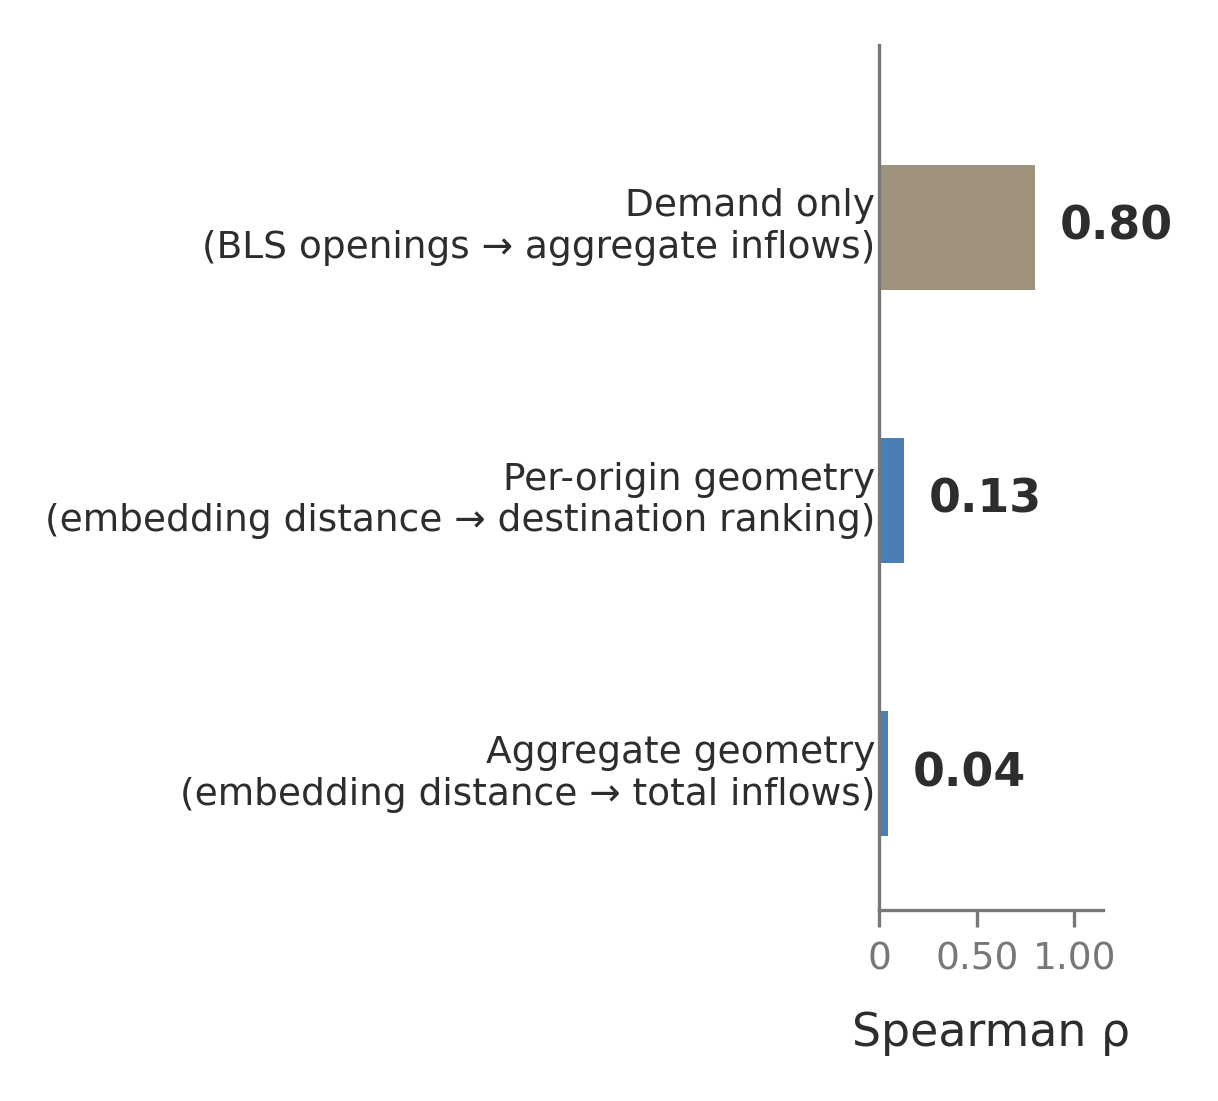
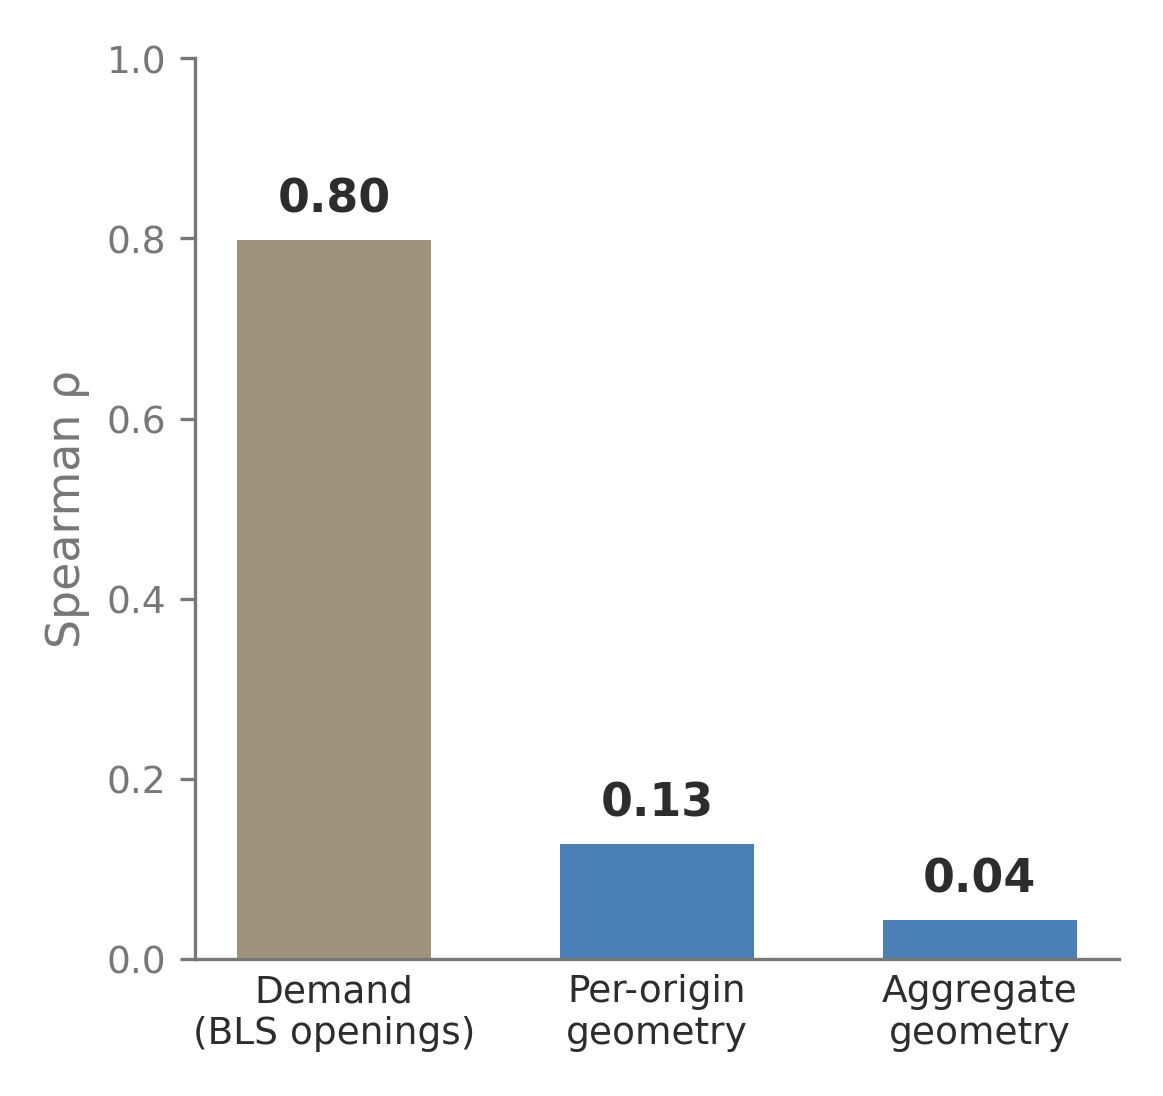
v0.7.9.2: Fig4 vertical bars, fig6 remove exponents and update subtitle

Changed region(s): [[0.031, 0.062, 0.9596, 0.9617], [0.0929, 0.031, 0.1548, 0.062]]

diff --git a/figures/fig4_scope.py b/figures/fig4_scope.py
@@ -1,56 +1,36 @@
 """
-Figure 4 — Supply-Demand Decomposition (scope)
-Target: Slide 7 ("What the Measure Captures")
-Data: Hardcoded from outputs/experiments/demand_probe_decomposition_v0703b.json
+Figure 4 — Supply-demand decomposition (scope)
+Target: Slide 7 (What the Measure Captures)
 """
 import sys, os
 sys.path.insert(0, os.path.join(os.path.dirname(__file__), '..'))
 
 import matplotlib.pyplot as plt
-from figures.style import setup, bar_label
-from figures.style import PRIMARY, SECONDARY, DARK, MID
+from figures.style import setup, PRIMARY, SECONDARY, DARK, MID
 
 font = setup()
 
-# === Data ===
-metrics = [
-    ("Demand only\n(BLS openings → aggregate inflows)",           0.798),
-    ("Per-origin geometry\n(embedding distance → destination ranking)", 0.128),
-    ("Aggregate geometry\n(embedding distance → total inflows)",   0.043),
-]
-
-# Reverse so top bar is demand (barh draws bottom-up)
-labels = [m[0] for m in metrics][::-1]
-values = [m[1] for m in metrics][::-1]
-colors = [PRIMARY, PRIMARY, SECONDARY]  # bottom two are geometry (PRIMARY), top is demand
-
-# === Figure ===
-bar_height = 0.55
-positions = [0, 1.2, 2.4]
+labels = ["Demand\n(BLS openings)", "Per-origin\ngeometry", "Aggregate\ngeometry"]
+values = [0.798, 0.128, 0.043]
+colors = [SECONDARY, PRIMARY, PRIMARY]
 
 fig, ax = plt.subplots(figsize=(4.0, 3.8))
 
-bars = ax.barh(positions, values, color=colors, height=bar_height,
-               edgecolor='none', zorder=2)
+bars = ax.bar(range(len(labels)), values, color=colors, width=0.6,
+              edgecolor='none', zorder=2)
 
-# Spec name labels
-for pos, label in zip(positions, labels):
-    ax.text(-0.02, pos, label, ha='right', va='center', fontsize=9,
-            color=DARK, fontweight='medium')
+# Value labels above bars
+for i, (v, bar) in enumerate(zip(values, bars)):
+    ax.text(bar.get_x() + bar.get_width() / 2, v + 0.02,
+            f'{v:.2f}', ha='center', va='bottom',
+            fontsize=11, color=DARK, fontweight='bold')
 
-# Value labels
-for pos, val in zip(positions, values):
-    bar_label(ax, val, pos, val, fmt='{:.2f}', fontsize=11)
-
-# Axes
-ax.set_xlim(0, 1.15)
-ax.set_ylim(-0.6, 3.2)
-ax.set_xticks([0, 0.5, 1.0])
-ax.set_xticklabels(['0', '0.50', '1.00'], fontsize=9)
-ax.set_yticks([])
-ax.set_xlabel("Spearman ρ", fontsize=11, labelpad=8)
-ax.tick_params(axis='y', length=0)
-ax.tick_params(axis='x', length=4)
+ax.set_xticks(range(len(labels)))
+ax.set_xticklabels(labels, fontsize=9, color=DARK)
+ax.set_ylabel('Spearman ρ', fontsize=11, color=MID)
+ax.set_ylim(0, 1.0)
+ax.tick_params(axis='y', labelsize=9)
+ax.tick_params(axis='x', length=0)
 
 plt.tight_layout()
 plt.savefig('figures/fig4_scope.png', dpi=300, bbox_inches='tight',

diff --git a/figures/fig6_embedding_similarity.py b/figures/fig6_embedding_similarity.py
@@ -53,6 +53,9 @@ ax1.annotate(f'Pipe\u2013Cement: {d_onet_pair:.2f}',
 ax1.set_title("O*NET Cosine Distance", fontsize=10, color=DARK, pad=6)
 ax1.set_ylabel('Pairs', fontsize=8, color=MID)
 ax1.set_xlim(0, 1.05)
+ax1.set_yticks([1, 10, 100, 1000, 10000, 100000])
+from matplotlib.ticker import FuncFormatter
+ax1.yaxis.set_major_formatter(FuncFormatter(lambda x, _: f'{int(x):,}' if x >= 1 else ''))
 ax1.tick_params(axis='both', labelsize=8)
 
 # --- Bottom panel: Embedding Centroid ---
@@ -72,7 +75,7 @@ ax2.set_xlim(0, 1.05)
 ax2.tick_params(axis='both', labelsize=8)
 
 # Subtitle
-fig.text(0.5, -0.04, 'Embeddings detect similarity that O*NET misses',
+fig.text(0.5, -0.04, '78% of O*NET pairs at max distance — embeddings recover a usable distribution',
          ha='center', fontsize=8, color=MID, fontstyle='italic')
 
 plt.savefig('figures/fig6_embedding_similarity.png', dpi=300, bbox_inches='tight',

diff --git a/LEDGER.md b/LEDGER.md
@@ -1,6 +1,6 @@
 # LEDGER.md — Task-Space Oracle Research State
 
-**Current Version:** 0.7.9.1
+**Current Version:** 0.7.9.2
 **Last Updated:** 2026-03-09
 **Paper Draft:** `paper/main.tex`
 
@@ -763,6 +763,7 @@ Deprecated approaches. Do not retry.
 
 | Version | Date | Changes |
 |---------|------|---------|
+| 0.7.9.2 | 2026-03-09 | Fig4 vertical bars, fig6 remove exponents and update subtitle. |
 | 0.7.9.1 | 2026-03-09 | Create fig4 (scope), fix fig5 centering/ellipses, fix fig6 log scale/sizing. |
 | 0.7.9.0 | 2026-03-09 | New figures — fig5 (shared DWAs), fig6 (embedding similarity), fig7 (Sankey pipeline), fig3 resized to 6.0×4.2. |
 | 0.7.8.9 | 2026-03-09 | Remove unused experiments/, notebooks/, templates/ directories. |
